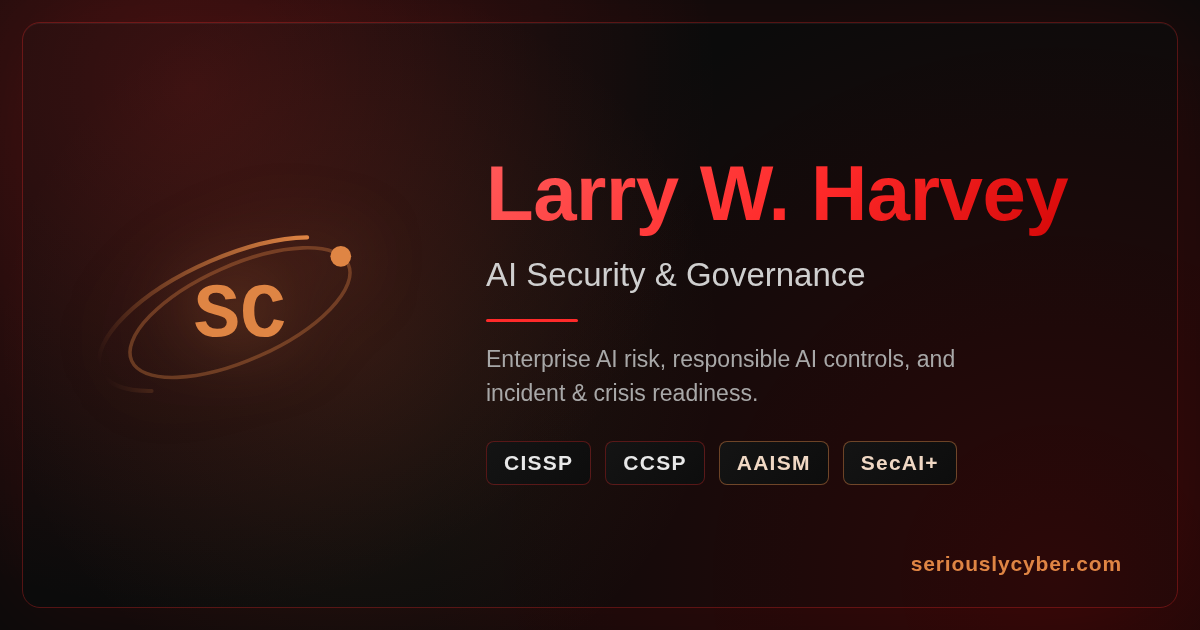
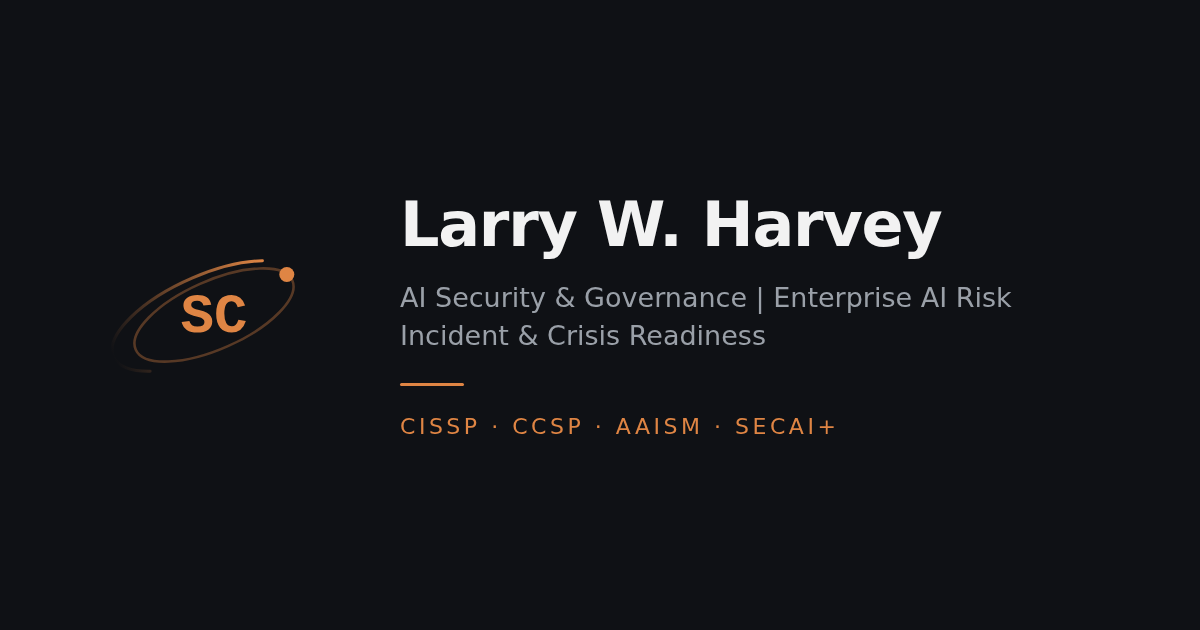
Regenerate the OG card to match the new palette
The previous card was built against the red-on-carbon design and no
longer resembled the page it previews. Adds assets/og-card.html as a
reproducible source, rendered to PNG with headless Chrome at 1200x630,
so the next palette change does not orphan the card again.

diff --git a/assets/og-card.html b/assets/og-card.html
@@ -1,0 +1,32 @@
+<!DOCTYPE html>
+<html lang="en">
+<head>
+<meta charset="UTF-8">
+<title>OG card source</title>
+<style>
+  * { margin: 0; padding: 0; box-sizing: border-box; }
+  html, body { width: 1200px; height: 630px; }
+  body {
+    background: #0f1115;
+    color: #ececee;
+    font-family: system-ui, -apple-system, 'Segoe UI', Roboto, 'Helvetica Neue', Arial, sans-serif;
+    display: grid; grid-template-columns: auto 1fr; gap: 56px;
+    align-items: center; padding: 0 84px;
+  }
+  img { width: 260px; height: auto; }
+  h1 { font-size: 62px; line-height: 1.1; letter-spacing: -0.02em; color: #f2f2f2; }
+  .sub { margin-top: 20px; font-size: 27px; line-height: 1.4; color: #9aa0a8; }
+  .rule { height: 3px; width: 64px; background: #df8544; border-radius: 2px; margin: 28px 0; }
+  .certs { font-size: 22px; letter-spacing: .16em; text-transform: uppercase; color: #df8544; }
+</style>
+</head>
+<body>
+  <img src="logo-orbital.svg" alt="">
+  <div>
+    <h1>Larry W. Harvey</h1>
+    <div class="sub">AI Security &amp; Governance | Enterprise AI Risk<br>Incident &amp; Crisis Readiness</div>
+    <div class="rule"></div>
+    <div class="certs">CISSP &middot; CCSP &middot; AAISM &middot; SecAI+</div>
+  </div>
+</body>
+</html>
